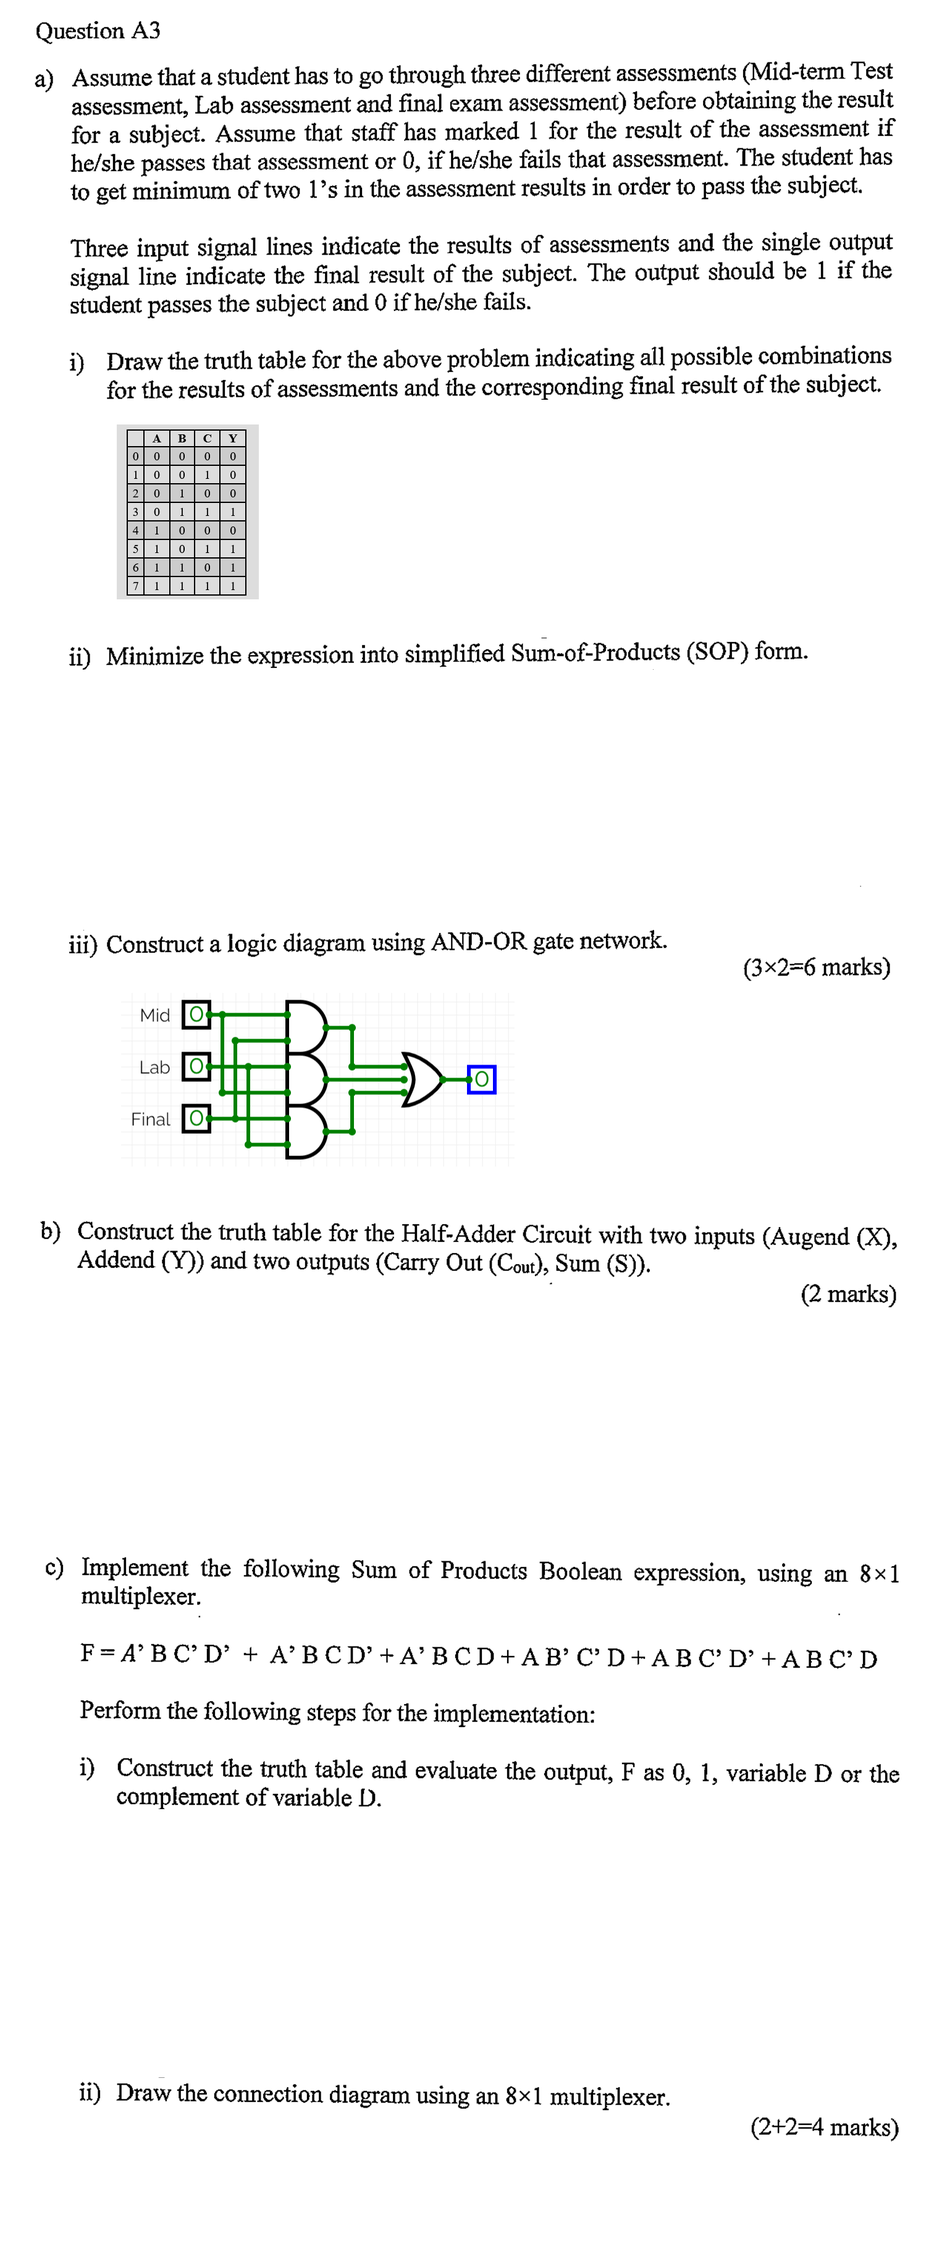
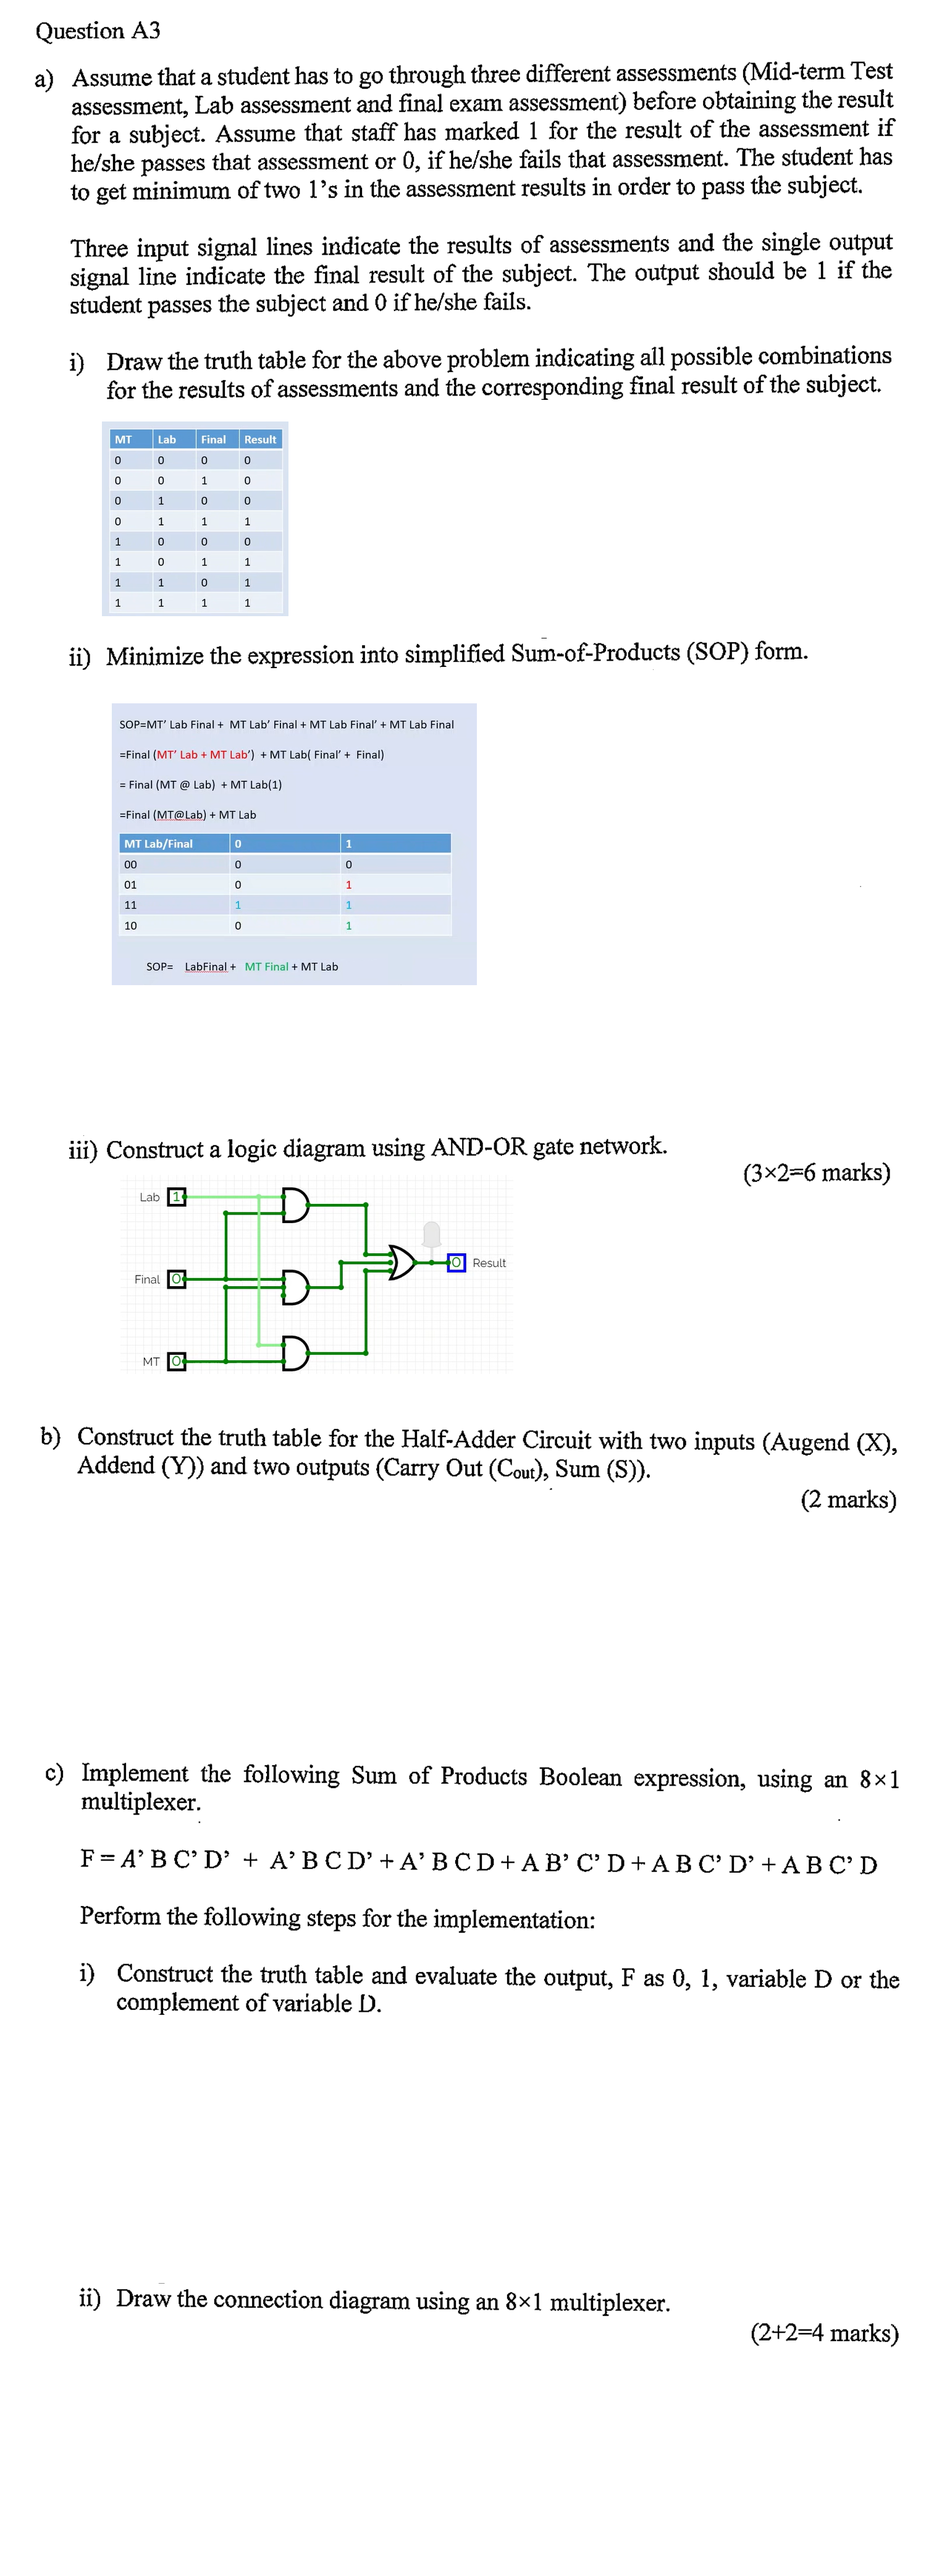
e

diff --git a/TSN 1101/Exams.html b/TSN 1101/Exams.html
@@ -78,7 +78,7 @@
   <h1>Question A2</h1> <!-- http://www.32x8.com/sop3_____A-B-C_____m_0-1-2-3-4-6-7___________option-0_____899788875971854592658 -->
     <img src="Images/Exams/TSN 1101, Exams, image 18.png">
   <h1>Question A3</h1> <!-- http://www.32x8.com/sop3_____A-B-C_____m_3-5-6-7___________option-0_____999781975271892883684 -->
-    <img src="Images/Exams/TSN 1101, Exams, image 19.png">
+    <img src="Images/Exams/TSN 1101, Exams, image 19.png"> <!-- 3/5/2024 @ 11:00 -->
   <h1>Question A4</h1>
     <img src="Images/Exams/TSN 1101, Exams, image 20.png">
   <h1>Question B1</h1>
@@ -105,7 +105,7 @@
 <h1>Question 3</h1>
   <img src="Images/Exams/TSN 1101, Exams, image 28.png">
 <h1>Question 4</h1>
-  <img src="Images/Exams/TSN 1101, Exams, image 29.png">
+  <img src="Images/Exams/TSN 1101, Exams, image 29.png"> <!-- 3/5/2024 @ 39:50, set to 0.25x -->
 </div>
 
 <input type="checkbox" id="accordion5" class="hidecontent"/> 
@@ -115,7 +115,7 @@
     <img src="Images/Exams/TSN 1101, Exams, image 30.png">
 <h1>Question 2</h1>
     <img src="Images/Exams/TSN 1101, Exams, image 31.png">
-    <img src="Images/Exams/TSN 1101, Exams, image 32.png">
+    <img src="Images/Exams/TSN 1101, Exams, image 32.png"> <!-- 3/5/2024 @ 41:00 -->
 <h1>Question 3</h1>
     <img src="Images/Exams/TSN 1101, Exams, image 33.png">
 <h1>Question 4</h1>

diff --git a/index.html b/index.html
@@ -289,7 +289,7 @@
 		</div>
 
 		<div class="end-text">
-			<p>Copyright © 2023 - 2024 All rights reserved | Last updated <a href="Update logs.html">27 Apr 2024</a>   </p>
+			<p>Copyright © 2023 - 2024 All rights reserved | Last updated <a href="Update logs.html">3 May 2024</a>   </p>
 		</div>
 	</section>
 

diff --git a/Update logs.html b/Update logs.html
@@ -880,7 +880,12 @@ th {
       Added a new timer in index.html to indicate how long left until final exams.
       </td>
     </tr>
-
+    <tr>
+      <td>3 May 2024</td>
+      <td> 
+        Further work on TSN 1101 Exams (Edited image 19, 27, 32)
+      </td>
+    </tr>
 
 
   </tbody>
